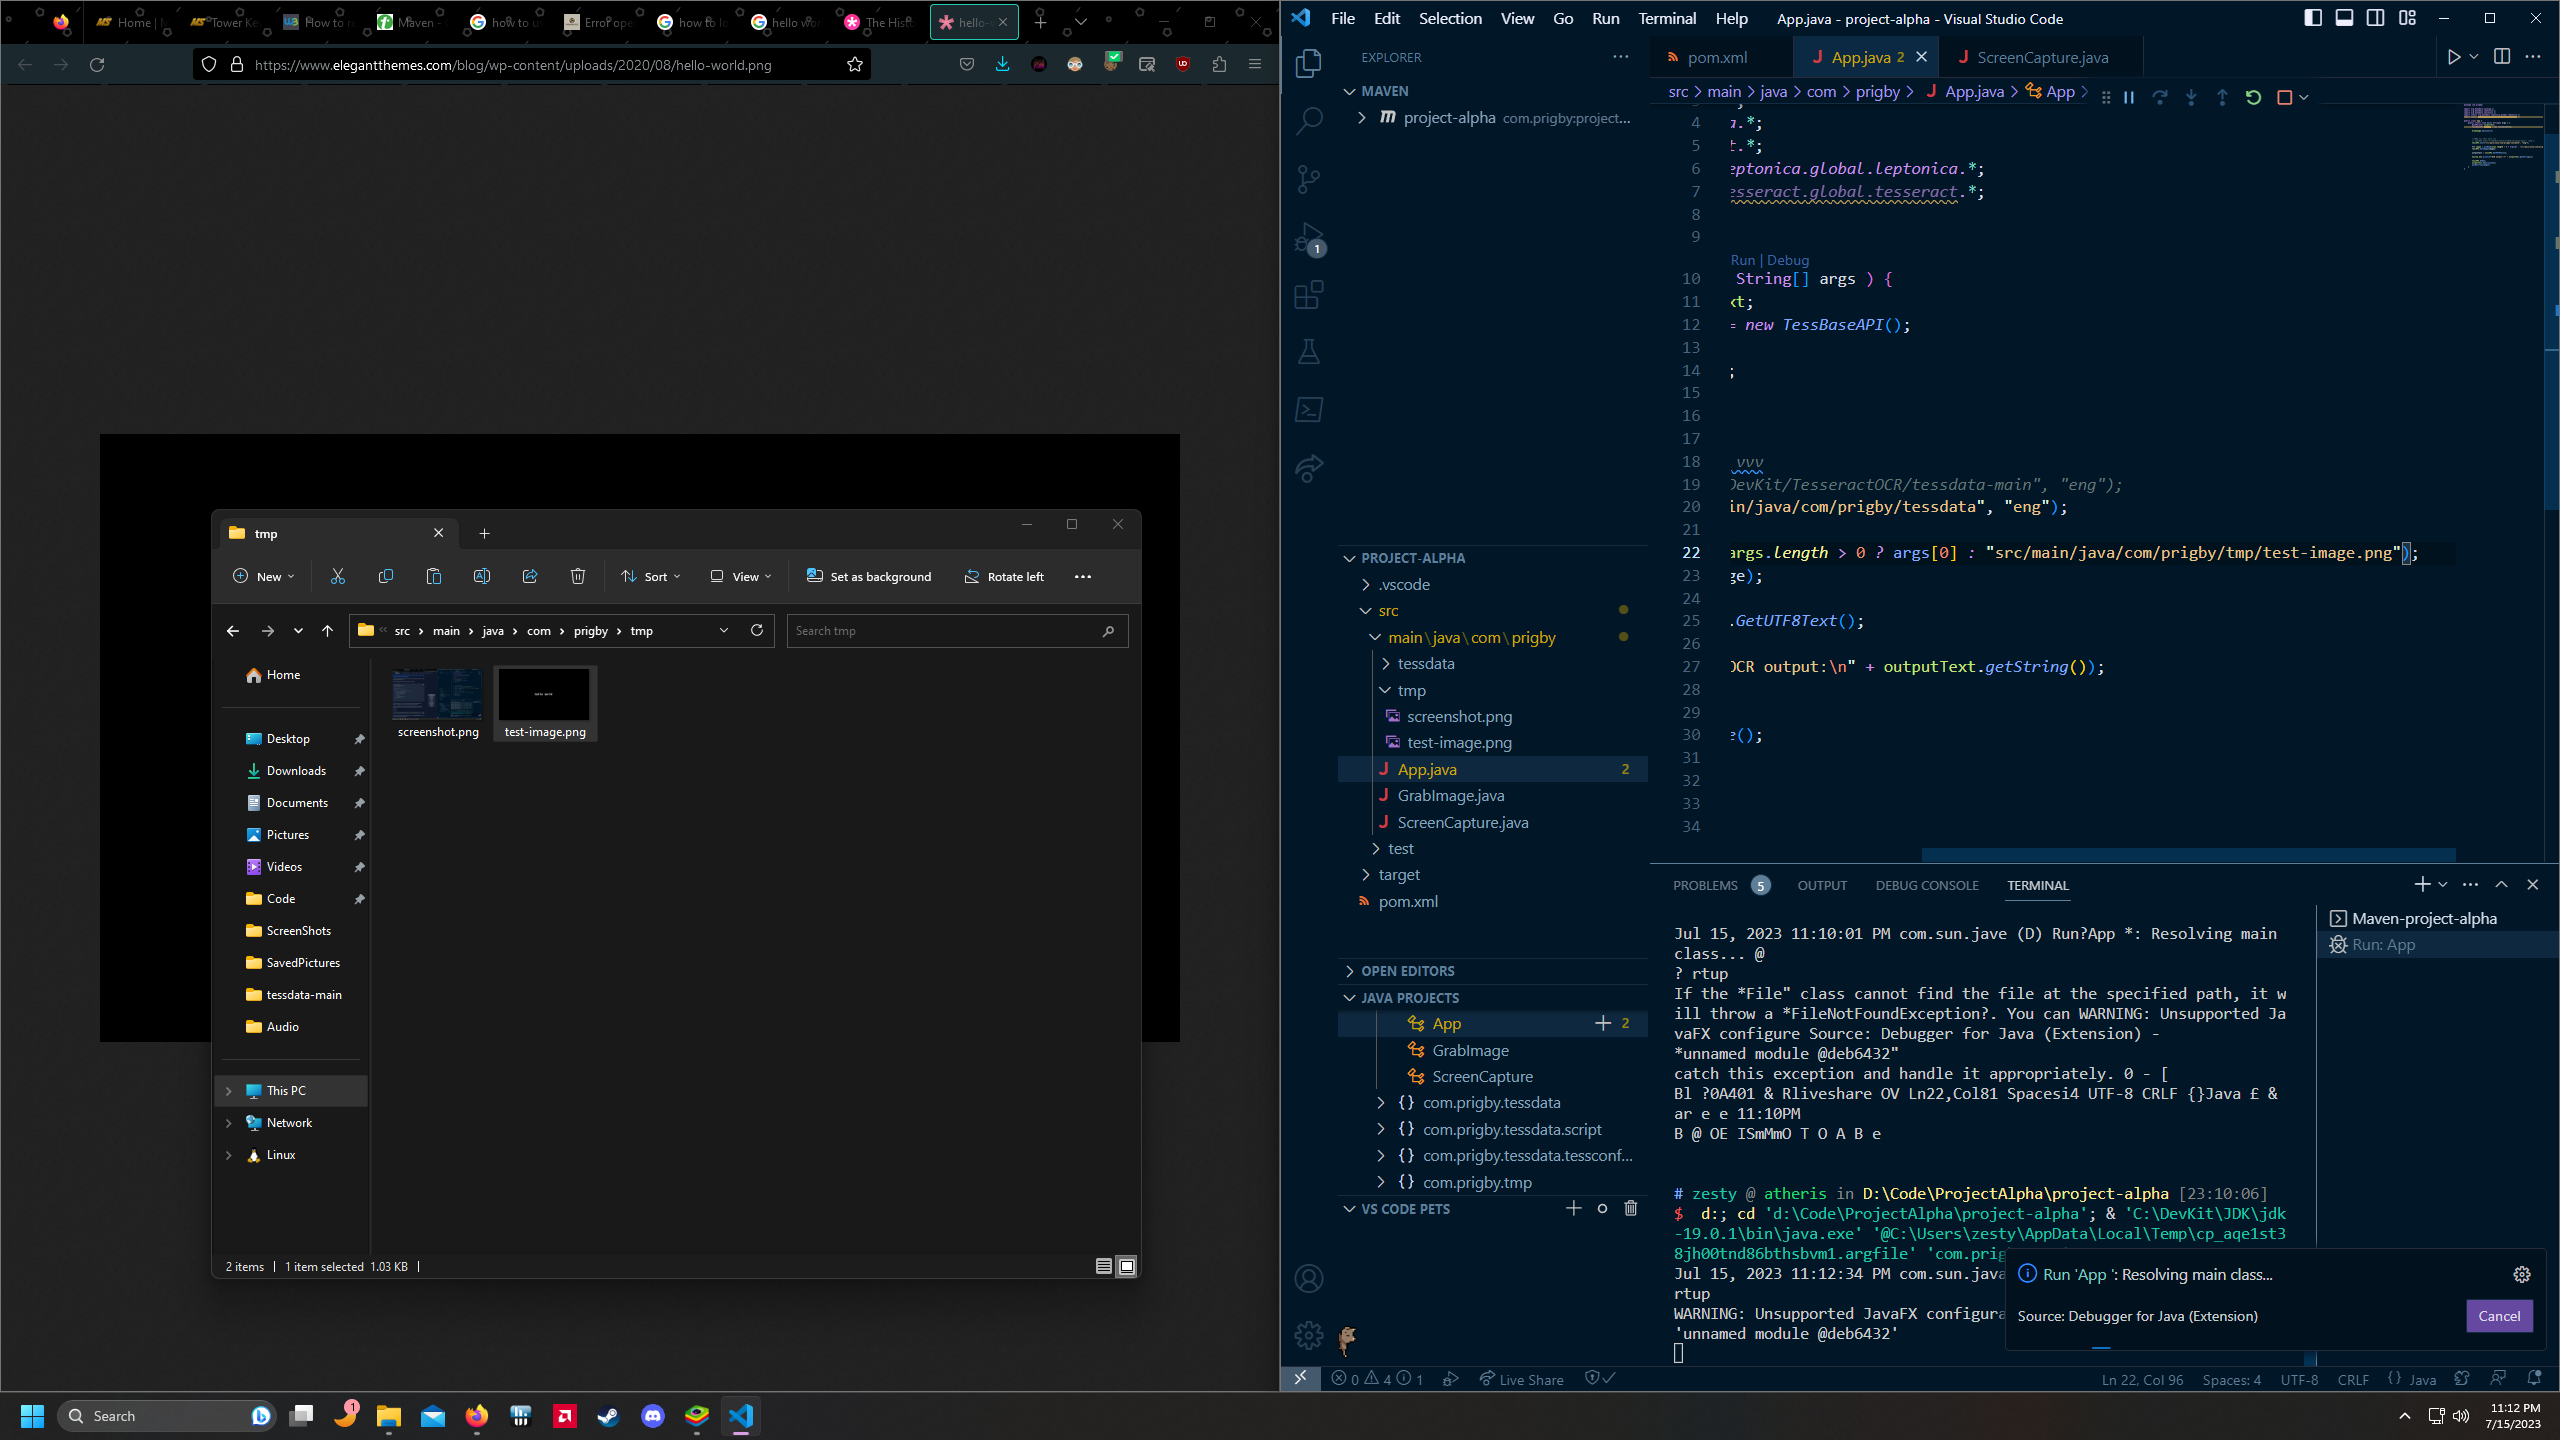
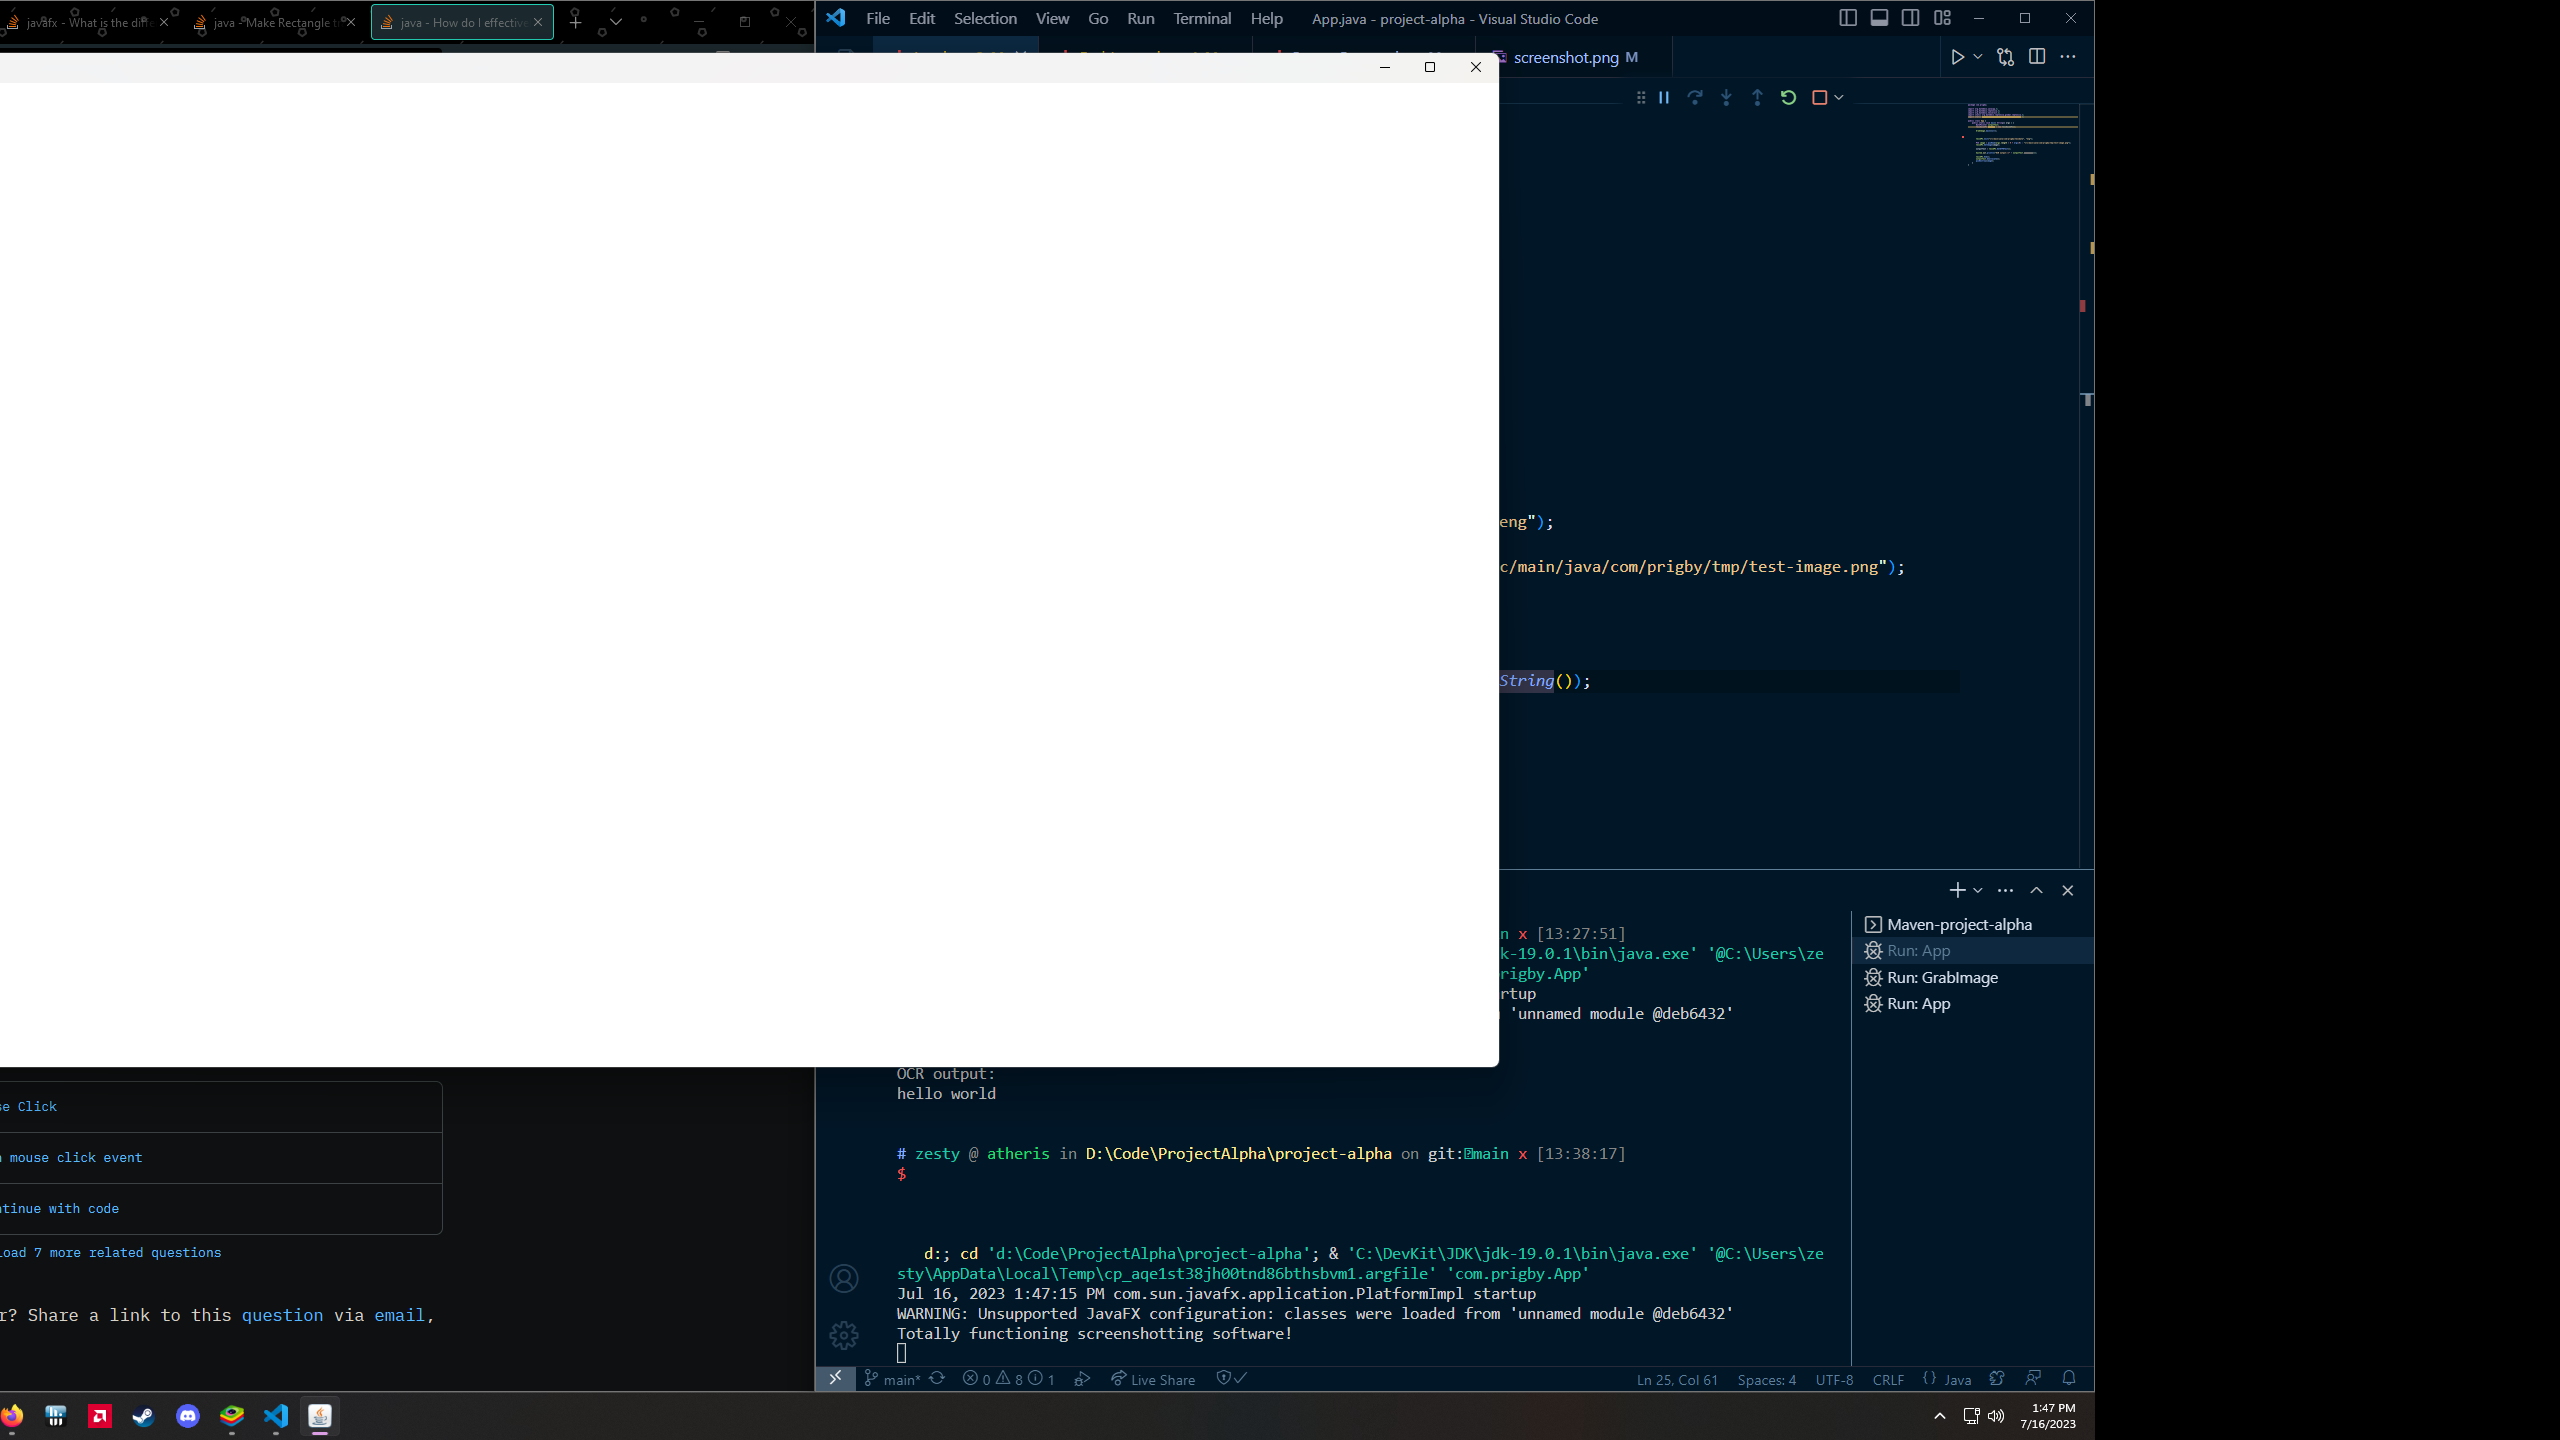
Many fixes.

diff --git a/src/main/java/com/prigby/ScreenCapture.java b/src/main/java/com/prigby/ScreenCapture.java
@@ -4,53 +4,64 @@ import java.io.File;
 import java.io.IOException;
 import javax.imageio.ImageIO;
 import javafx.embed.swing.SwingFXUtils;
-import javafx.event.EventHandler;
 import javafx.geometry.Rectangle2D;
 import javafx.scene.image.WritableImage;
-import javafx.scene.input.MouseEvent;
 import javafx.scene.layout.Pane;
 import javafx.scene.robot.Robot;
+import javafx.stage.Screen;
 
 public class ScreenCapture extends Pane {
     private Robot robot;
     private WritableImage capturedScreen;
-    private int mouseX1, mouseX2, mouseY1, mouseY2;
-    private boolean hasBeenCropped, hasBeenShot;
+    private double mouseX1, mouseX2, mouseY1, mouseY2;
+    private boolean hasBeenShot;
 
 
     public ScreenCapture() throws IOException {
-        this.setPrefSize(2560, 1440);
         robot = new Robot();
-        hasBeenCropped = hasBeenShot = false;
+        hasBeenShot = false;
+        this.mouseX1 = Screen.getPrimary().getBounds().getMinX();
+        this.mouseY1 = Screen.getPrimary().getBounds().getMinY();
+        this.mouseX2 = Screen.getPrimary().getBounds().getMaxX();
+        this.mouseY2 = Screen.getPrimary().getBounds().getMaxY();
     }
 
-    public void cropScreen() {
-        EventHandler<MouseEvent> mouseClickHandler = (MouseEvent event) -> {handleMouseClick(event);};
-        EventHandler<MouseEvent> mouseDragHandler = (MouseEvent event) -> {handleMouseDrag(event);};
-        this.setOnMousePressed(mouseClickHandler);
-        this.setOnMouseReleased(mouseDragHandler);
+    public ScreenCapture(double mouseX1, double mouseY1, double mouseX2, double mouseY2) throws IOException {
+        robot = new Robot();
+        hasBeenShot = false;
+        this.mouseX1 = mouseX1;
+        this.mouseY1 = mouseY1;
+        this.mouseX2 = mouseX2;
+        this.mouseY2 = mouseY2;
     }
 
-    public void screenShot() {
-        if (!hasBeenCropped) {throw new RuntimeException("No screen selection was made.");}
+    public void setMouseX1(double coordinate) {
+        this.mouseX1 = coordinate;
+    }
+    public void setMouseY1(double coordinate) {
+        this.mouseX1 = coordinate;
+    }
+    public void setMouseX2(double coordinate) {
+        this.mouseX1 = coordinate;
+    }
+    public void setMouseY2(double coordinate) {
+        this.mouseX1 = coordinate;
+    }
+
+    public void screenShot() throws IOException {
+        // if (!hasBeenCropped) {throw new RuntimeException("No screen selection was made.");}
         capturedScreen = robot.getScreenCapture(null, new Rectangle2D(mouseX1, mouseY1, mouseX2, mouseY2));
+        hasBeenShot = true;
     }
 
     public void saveShot() throws IOException {
-        if (!hasBeenShot) {throw new RuntimeException("No screenshot was captured.");}
+        // if (!hasBeenShot) {throw new RuntimeException("No screenshot was captured.");}
         File outputImage = new File("./src/main/java/com/prigby/tmp/screenshot.png");
-        ImageIO.write(SwingFXUtils.fromFXImage(capturedScreen, null), "png", outputImage);    
+        ImageIO.write(SwingFXUtils.fromFXImage(capturedScreen, null), "png", outputImage);
+        hasBeenShot = false;    
     }
 
-
-    //TODO fix this shitssssVVV
-    private void handleMouseClick(MouseEvent event) {
-        mouseX1 = (int)(event.getX());
-        mouseY1 = (int)(event.getY());
-    }
-
-    private void handleMouseDrag(MouseEvent event) {
-        mouseX2 = (int)(event.getX());
-        mouseY2 = (int)(event.getY());
+    public boolean getShotStatus() {
+        return hasBeenShot;
     }
 }

diff --git a/src/main/java/com/prigby/GrabImage.java b/src/main/java/com/prigby/GrabImage.java
@@ -4,26 +4,61 @@ import java.io.IOException;
 
 import javafx.application.Application;
 import javafx.application.Platform;
+import javafx.event.EventHandler;
+import javafx.scene.Scene;
+import javafx.scene.input.MouseEvent;
+import javafx.scene.paint.Color;
 import javafx.stage.Stage;
 
 public class GrabImage extends Application {
+
+    private double screenMinX, screenMinY, screenMaxX, screenMaxY;
+    private ScreenCapture screenCapture;
+
     public static void main( String[] args ) {
         launch(args);
     }
 
     @Override
     public void start(Stage stage) throws Exception {
+        screenCapture = new ScreenCapture();
+
+
+        //XXX Event Handlers
+        EventHandler<MouseEvent> mousePressHandler = (MouseEvent event) -> {handleMousePress(event);};
+        EventHandler<MouseEvent> mouseReleaseHandler = (MouseEvent event) -> {handleMouseRelease(event);};
+
+       
         stage.setTitle("Hello");
         System.out.println( "Totally functioning screenshotting software!" );
 
+        Scene scene = new Scene(screenCapture);
+        scene.setFill(Color.TRANSPARENT);
+        scene.addEventHandler(MouseEvent.MOUSE_PRESSED, mousePressHandler);
+        scene.addEventHandler(MouseEvent.MOUSE_RELEASED, mouseReleaseHandler);
+
+        stage.setScene(scene);
+        stage.show();
+
+
+    }
+
+
+    private void handleMousePress(MouseEvent event) {
+        screenCapture.setMouseX1(event.getX());
+        screenCapture.setMouseY1(event.getY());
+    }
+    
+    private void handleMouseRelease(MouseEvent event) {
+        screenCapture.setMouseX2(event.getX());
+        screenCapture.setMouseY2(event.getY());
         try {
-            ScreenCapture screenCapture = new ScreenCapture();        
             screenCapture.screenShot();
             screenCapture.saveShot();
-            System.out.println("Image saved to: tmp");
+            System.out.println("Screen captured.");
         } catch (IOException e) {
             System.out.println("Failed to capture screen.");
         }
-        Platform.exit();
+        Platform.exit();    
     }
 }

diff --git a/src/main/java/com/prigby/App.java b/src/main/java/com/prigby/App.java
@@ -15,8 +15,6 @@ public class App {
 
 
 
-        //TODO fix this shit vvv
-        // tessAPI.Init("C:/DevKit/TesseractOCR/tessdata-main", "eng");
         tessAPI.Init("src/main/java/com/prigby/tessdata", "eng");
 
         PIX image = pixRead(args.length > 0 ? args[0] : "src/main/java/com/prigby/tmp/test-image.png");
